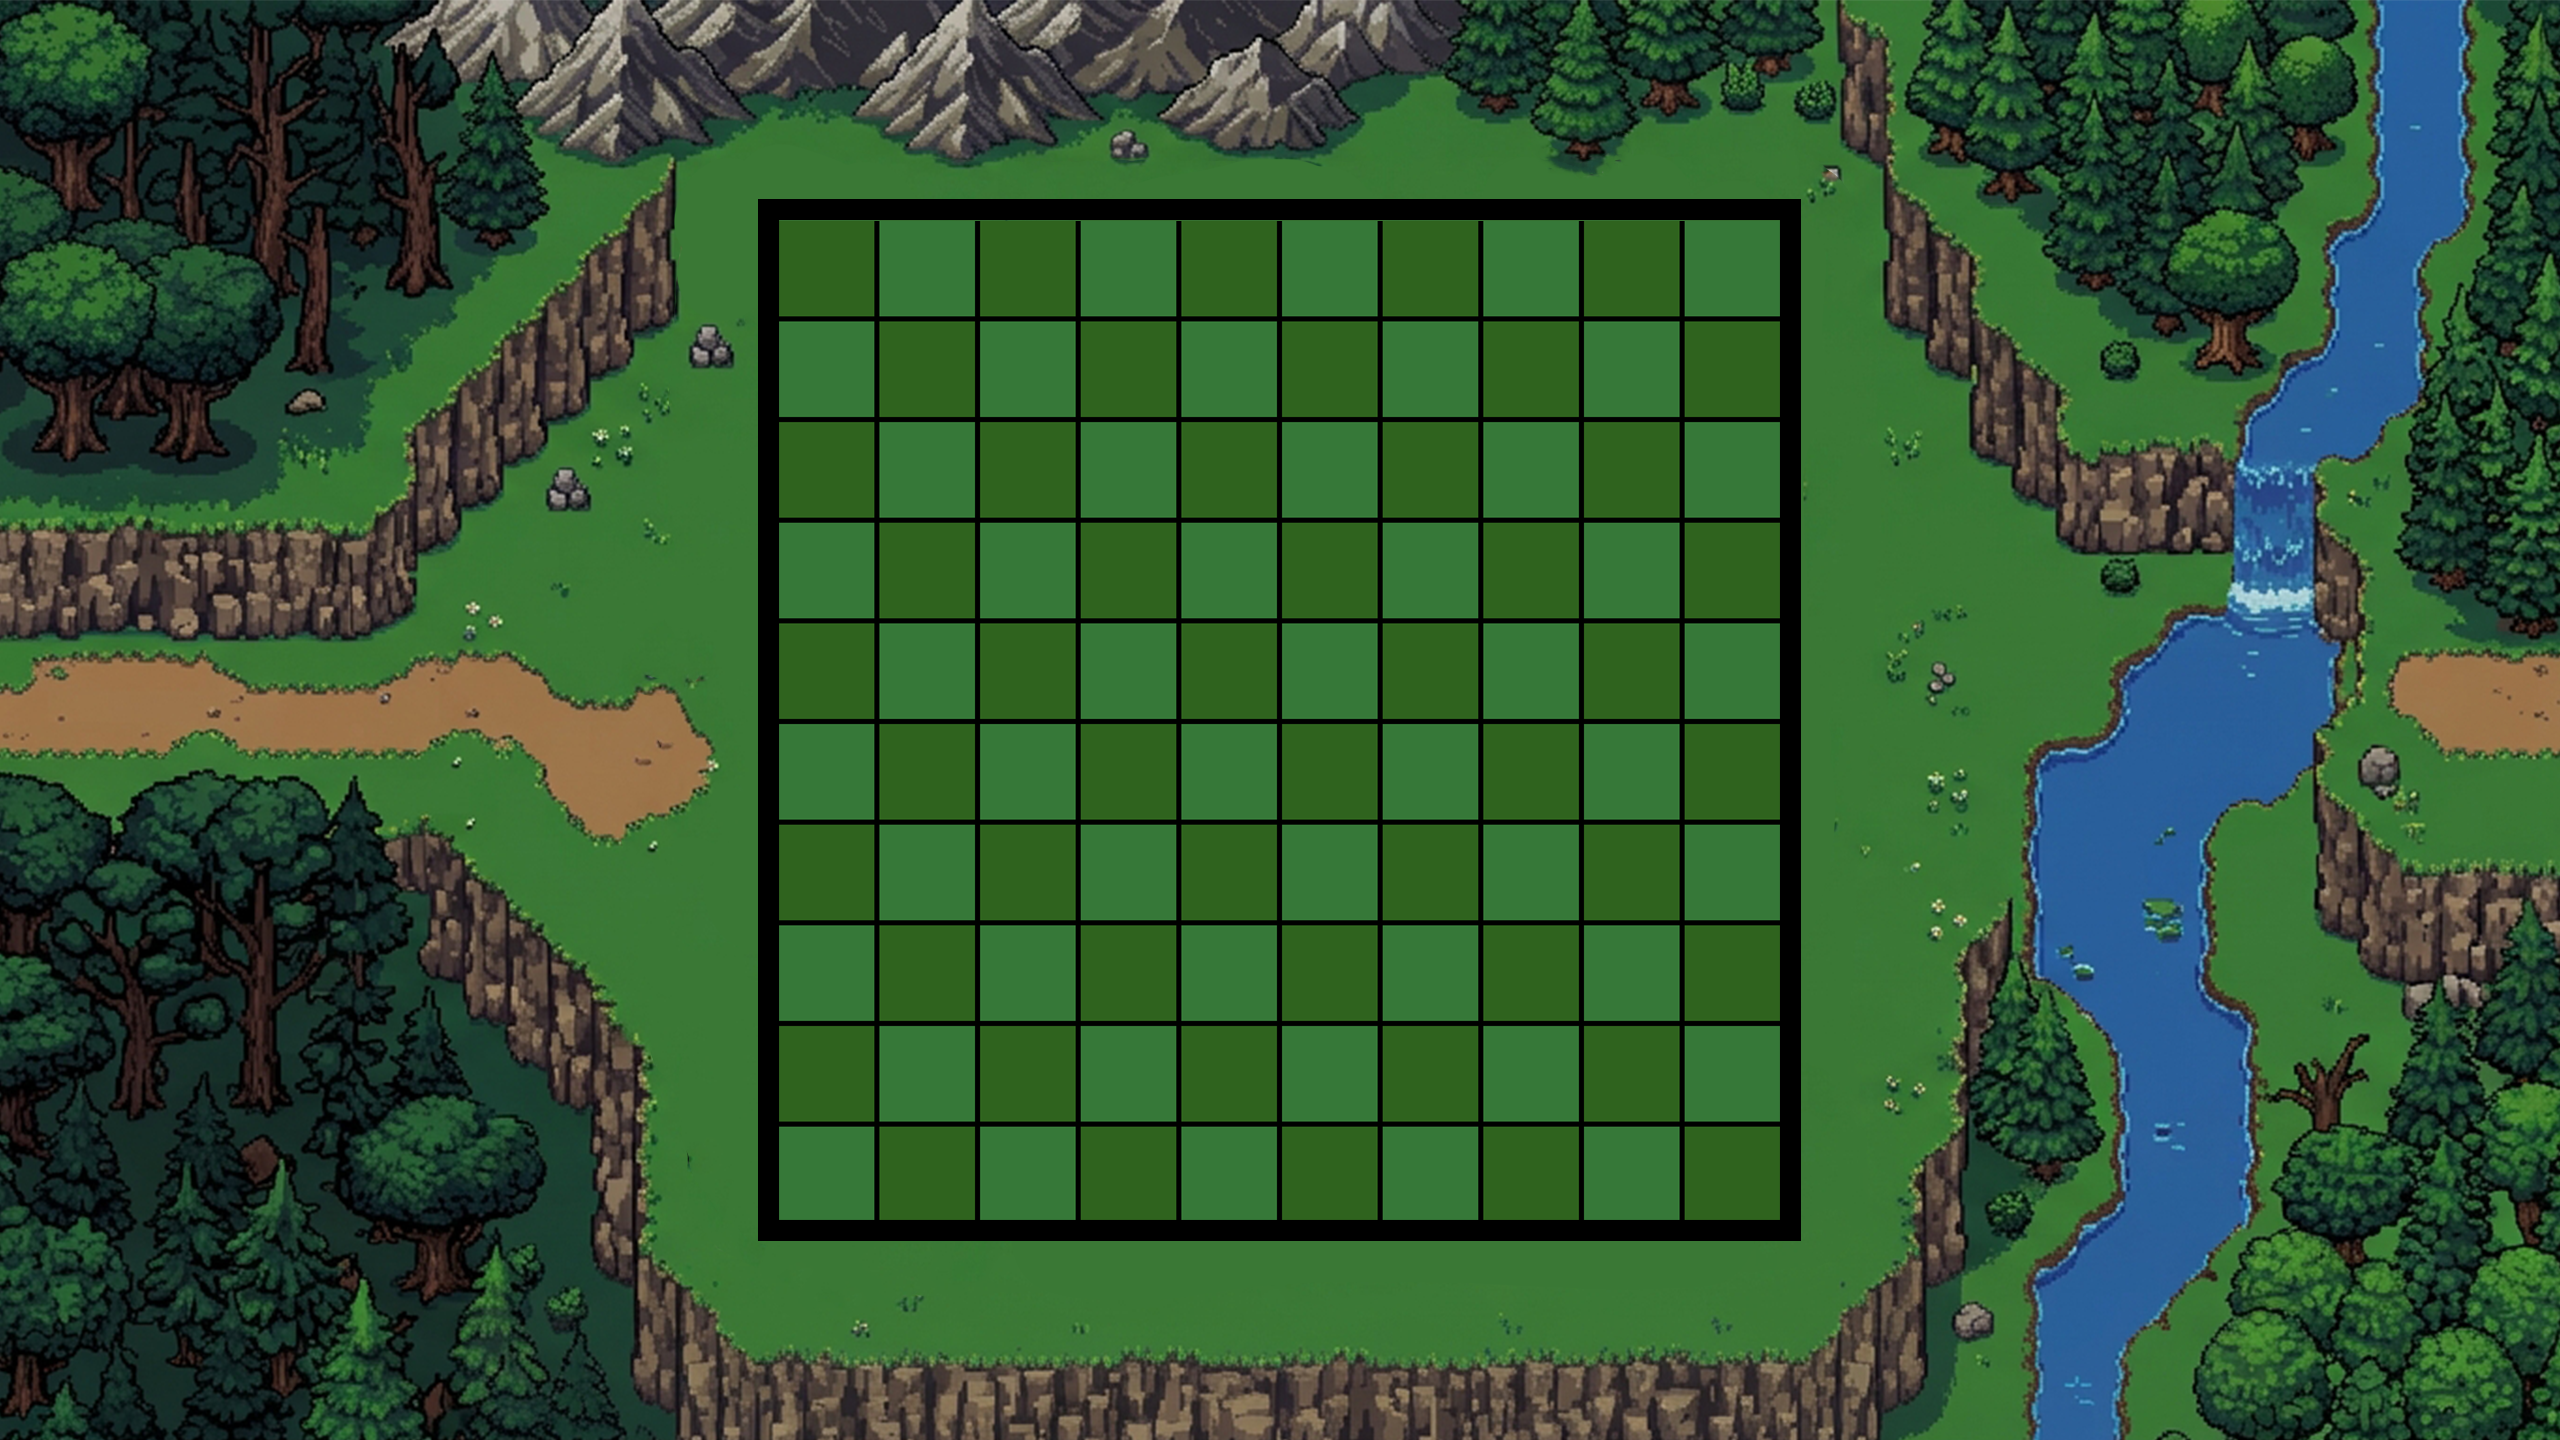
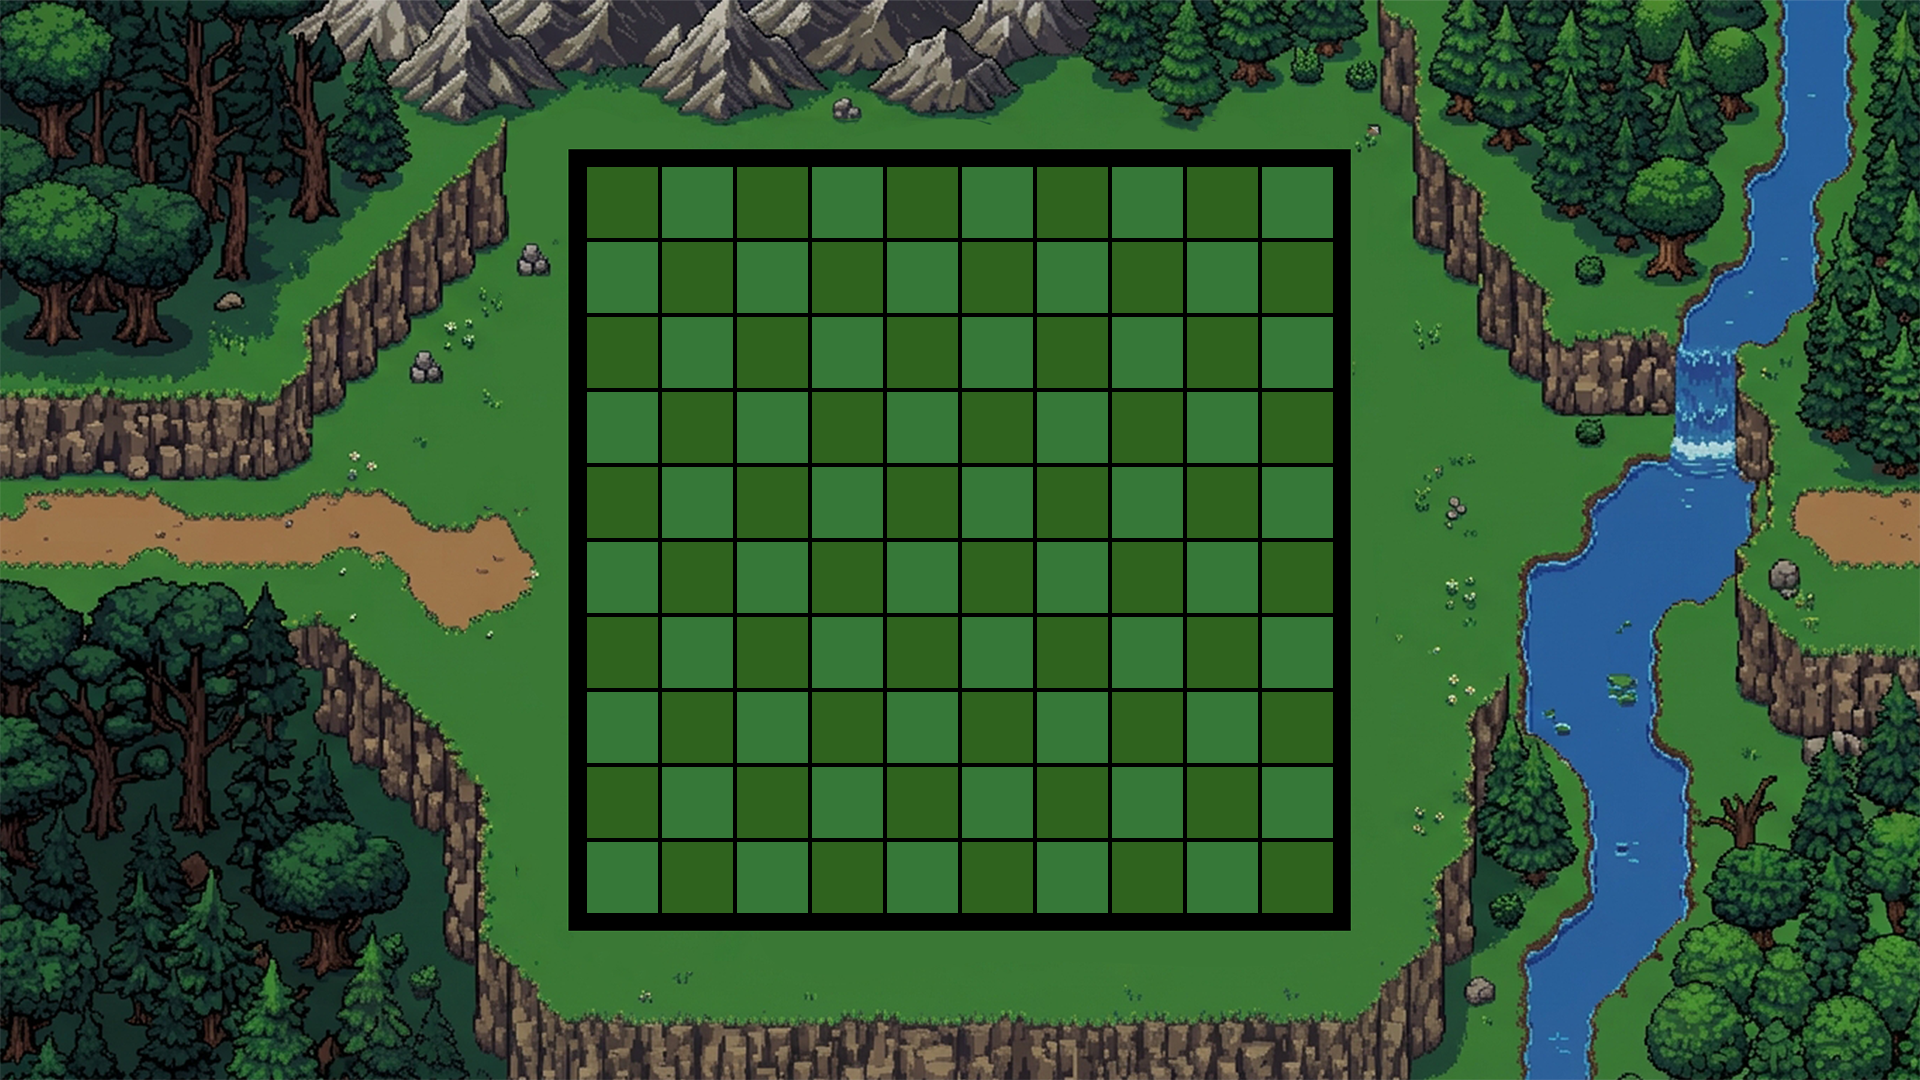
I changed battle_map res to 1080p, and added some functions that you should check in grid.py, also manu now can be moved wherever u want

diff --git a/grid.py b/grid.py
@@ -1,11 +1,47 @@
+def detect_pos(coord): 
+
+    x = 0
+    y = 0                   # Returns the position of the square that is finded on the coordinates given.
+
+    for i in range (1, 11):
+        if coord[0] > 587 and coord[0] > (((i - 1) * 4) + ((i - 1) * 71) + 587) and coord[0] < (((i - 1) * 4) + (i * 71) + 587):
+            x = i
+
+    for i in range (1, 11):
+        if coord[1] > 167 and coord[1] > (((i - 1) * 4) + ((i - 1) * 71) + 167) and coord[1] < (((i - 1) * 4) + (i * 71) + 167):
+            y = i
+
+    return (x, y)
+
+def grid_create():
+    grid_pos = []
+    grid_coord = []
+    grid = {}
+    for i in range (1, 11):
+        for j in range (1, 11):
+            grid_pos.append((i, j))
+
+    for i in range(0, 10):                                      # Creates grid dict that has positions as keys and coordinates as values
+        for j in range(0, 10):                                  #       {(1, 1)         :         (587, 167)}
+            grid_coord.append(                                  #      Position of           (x, y) of the topleft
+                (                                               #        square               corner of the square
+                    (587 + (i * 71) + ((i - 1) * 4)),
+                    (167 + (j * 71) + ((j - 1) * 4))
+                )
+            )
+    for i in range(0, 100):
+        grid[grid_pos[i]] = grid_coord[i]
+
+    return grid
+
 
 def map_create():
     map_pos = []
     map = {}
-    for i in range (1, 9):
-        for j in range (1, 9):
+    for i in range (1, 11):
+        for j in range (1, 11):
             map_pos.append((i, j))      # Creates an 8x8 grid map: {(1, 1) : "id"}
-    for i in range (0, 32):
+    for i in range (0, 100):
         map[map_pos[i]] = 0 
     
     return map

diff --git a/main.py b/main.py
@@ -1,5 +1,8 @@
-import pygame, sys, random, characters_properties, grid, loading_assets 
+import pygame, sys, random, characters_properties, loading_assets 
 from pathlib import Path
+
+from grid import detect_pos, grid_create
+
 
 pygame.init()
 size = width, height = 1920, 1080
@@ -12,7 +15,7 @@ screen = pygame.display.set_mode(size)
 pygame.display.set_caption("Project Name TBD")
 font = pygame.font.SysFont(None, 70)
 
-(background, background_rect, Manu_img, Manu_img_rect) = loading_assets.load_game_objects(width, height)
+(background, background_rect, manu, manu_rect) = loading_assets.load_game_objects(width, height)
 
 def draw_text(text, font, text_color, x, y):
     img = font.render(text, True, text_color)
@@ -21,7 +24,14 @@ def draw_text(text, font, text_color, x, y):
 def redraw():
     screen.fill(white)
     screen.blit(background, background_rect)
-    screen.blit(Manu_img, Manu_img_rect)
+    screen.blit(manu, manu_rect)
+
+def try_things(): # Test things using this function
+    grid = grid_create()
+    manu_rect.topleft = grid[(5, 5)]
+
+try_things()
+    
 
 while True:
     clock.tick(60)
@@ -32,9 +42,14 @@ while True:
             pygame.quit()
             sys.exit()
         if event.type == pygame.KEYDOWN:
-            if event.key == pygame.K_ESCAPE:
+            if event.key == pygame.K_ESCAPE: # Why tho?
                 pygame.quit()
                 sys.exit()
+        if event.type == pygame.MOUSEBUTTONUP:  #  - - - If the click button is being held, the program will take only one click and IGNORES the rest.
+            print(str(detect_pos(event.pos)))
+            print(str(event.pos))
+
+        
 
 
     redraw()

diff --git a/loading_assets.py b/loading_assets.py
@@ -7,10 +7,9 @@ assets_folder = script_folder / "assets"
 def load_game_objects(width, height):
 
     background = pygame.image.load(assets_folder / "battle_map.png")
-    background = pygame.transform.scale(background, (width, height))
     background_rect = background.get_rect()
-    Manu_img = pygame.image.load(assets_folder / "sm_placeholder.png")
-    Manu_img_rect = Manu_img.get_rect()
+    manu = pygame.image.load(assets_folder / "sm_placeholder.png")
+    manu_rect = manu.get_rect()
 
 
-    return (background, background_rect, Manu_img, Manu_img_rect)
+    return (background, background_rect, manu, manu_rect)
